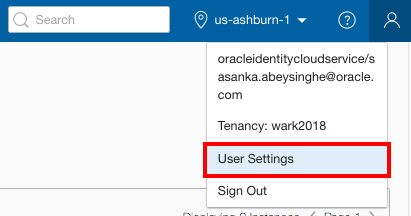
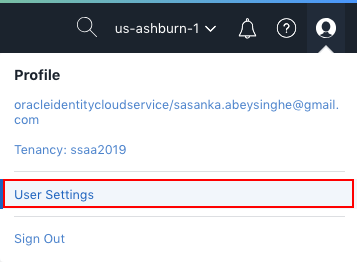
New Login

diff --git a/workshops/wls-oke/LabGuide100.md b/workshops/wls-oke/LabGuide100.md
@@ -48,19 +48,9 @@ To run the operator in a Kubernetes cluster, you need to build the Docker image 
 
   ![](images/200/2.png)
 
-**NOTE**: If you have used your trial account already, you may have been prompted to change the temporary password listed in the welcome email. In that case, enter the new password in the password field.
+- You are presented with the Oracle Cloud Infrastructure (OCI) Dashboard/Portal
 
-- In the top left corner of the dashboard, click the **hamburger menu**
-
-  ![](images/200/3.png)
-
-- Click to expand the **Services** sub menu, then click **Compute**
-
-  ![](images/200/4.png)
-
-- On the OCI Console sign in page, enter the same **Username** as you did on the previous sign in page. If you are using a trial account and this is your first time logging into the OCI Console, enter the **temporary password** from your trial account welcome email. If you have already visited the OCI Console and changed your password, enter your **new password**. Otherwise, this password will be supplied by your workshop instructor.
-
-  ![](images/200/5.png)
+  ![](images/200/image4a.png)
 
 ### **STEP 2**: Get Authentication Token to use Oracle Cloud Infrastructure Registry (OCIR)
 

diff --git a/workshops/wls-oke/LabGuide200.md b/workshops/wls-oke/LabGuide200.md
@@ -48,19 +48,9 @@ Oracle Cloud Infrastructure Container Engine for Kubernetes is a fully-managed, 
 
   ![](images/200/2.png)
 
-**NOTE**: If you have used your trial account already, you may have been prompted to change the temporary password listed in the welcome email. In that case, enter the new password in the password field.
+- You are presented with the Oracle Cloud Infrastructure (OCI) Dashboard/Portal
 
-- In the top left corner of the dashboard, click the **hamburger menu**
-
-  ![](images/200/3.png)
-
-- Click to expand the **Services** submenu, then click **Compute**
-
-  ![](images/200/4.png)
-
-- On the OCI Console sign in page, enter the same **Username** as you did on the previous sign in page. If you are using a trial account and this is your first time logging into the OCI Console, enter the **temporary password** from your trial account welcome email. If you have already visited the OCI Console and changed your password, enter your **new password**. Otherwise, this password will be supplied by your workshop instructor.
-
-  ![](images/200/5.png)
+  ![](images/200/image4a.png)
 
 ### **STEP 2**: Create a Compartment for your Kubernetes nodes
 
